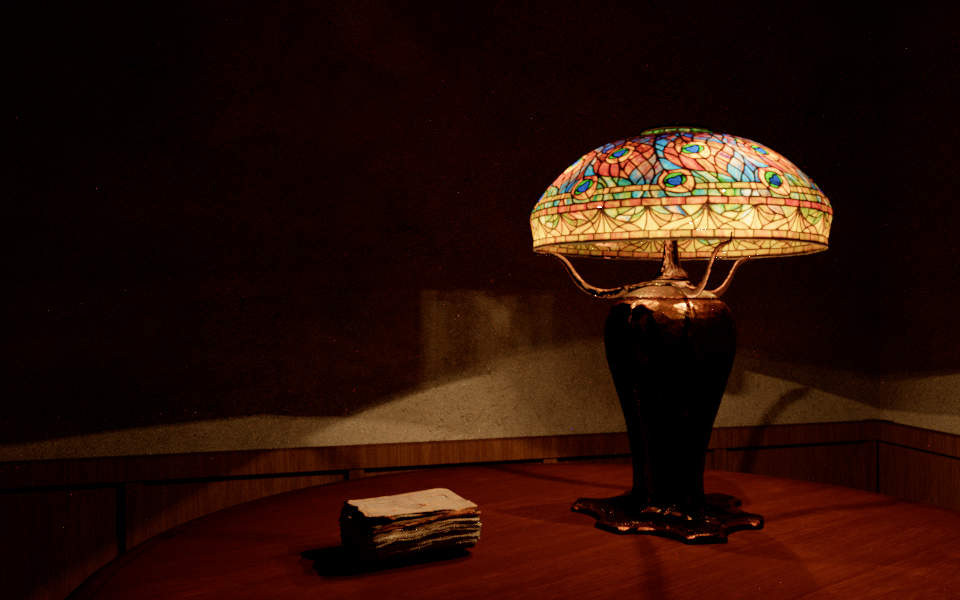
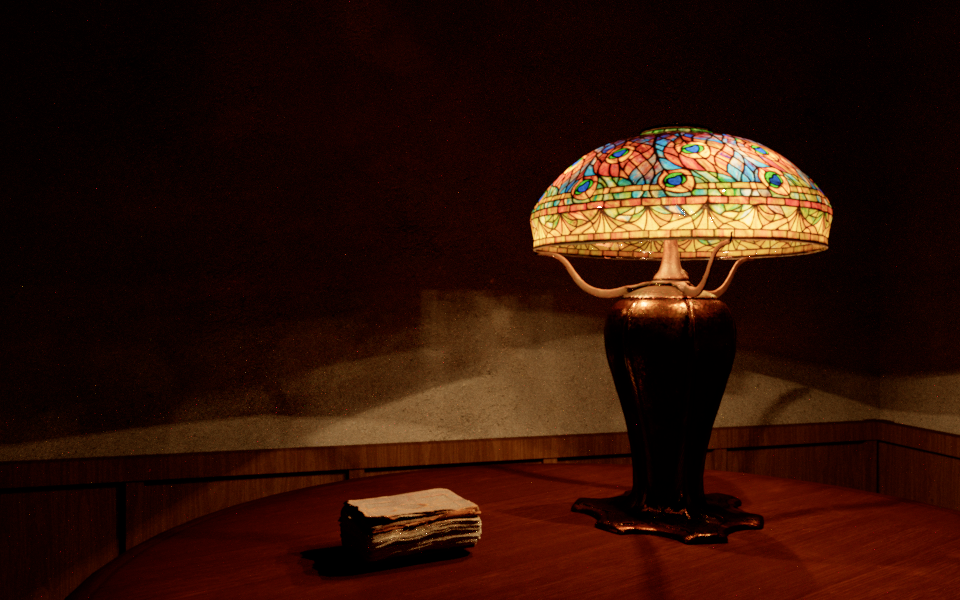
Promote the Peacock views and the invisible window's wall to the gallery
Captured on 26 October with the lead-wire repair, the concave-fold re-walk and
the ordering of ties that cannot change a region: Window Wall 26 region
inconsistencies in 1.25e9 paths, Peacock Room 276 and Shade 234 in 5.9e8 each,
no leaks. Each was reviewed at native resolution; the Peacock views keep a few
dozen isolated bright pixels on the shade. The Window room view stays withheld:
its capture recorded one leak.

diff --git a/docs/STATUS.md b/docs/STATUS.md
@@ -60,10 +60,10 @@ See the [four-case record](../benchmarks/results/20261013_maintenance.json) and
 |---|---|
 | 4× over v1.0 at equal image error | **Not achieved.** The 10-09 checkpoint was about 2.96× slower on the two compatible comparisons. Later local gains do not establish a full-suite result. Compare the same scene/assets, estimator, seeds and error threshold. |
 | Camera-kernel cost | The historical Peacock profile assigned about 79% of kernel time to camera paths. Submission and film changes do not remove that bottleneck. Specialized kernels and a wavefront prototype still need separate measurements. |
-| Production transport | Window panel leaks found and fixed 10-26: the panel's flat back is a fan of 150 mm × 0.6 mm slivers, and a ray entering a side face micrometres from the back missed it on the GPU (float Möller–Trumbore rejects a sliver near its far edge; double does not). Both backends now use the watertight triangle test in `core/shared`; a regression test (fan slab) fails on the old kernel. At 240×150, 64 spp, three seeds: Room SPPM 37 → 7 inconsistencies and 3 → 0 leaks, Wall 21 → 4 and 1 → 0; Room path tracing 0 in six seeds. What remains are ties at seams between coincident faces of touching bodies (shutter leaves, vestibule walls, door lintel and roof, mirror backing), stopped as ambiguous by design: a scene repair, or a rule for ties between opaque faces, is still to decide. At gallery settings (10-26) Room has 21 inconsistencies and 1 leak, Wall 48 and 0 (the previous Wall capture had 243 and 34). Peacock (10-26): the six lead-in wires ended on their loops' centre circles, so 0.8 % of the emitting area lay inside opaque wires and about 0.6 % of VCM paths were inconsistent; the wires now stop 30 µm short. At gallery settings (Room and Shade, 512 spp, 590M paths each) 1,958 and 1,489 remain, with 0 leaks. Most are ties where the bulbs' glass stem tabs end exactly on the ferrule plates (two shells with air on both sides, stopped by the same tie rule): in 24 sampled pilots the first inconsistency was such a tie 22 times. Light grazing a concave fold of the filament tori and missing the next facet in float32 is fixed (a mismatched hit is walked again in the mesh's own frame). Rarer float32 cases remain at the sub-millimetre filaments and wires (one torus facet edge and one lead-wire cap among the 24), and the window sill is sunk 2 cm into the west sill wall, a scene overlap. The [historical capture inventory](gallery/README.md) shows diagnostics in Kunstkammer, Gregorian and other gallery views too. Reproduce individual paths and require clean independent-seed captures. |
+| Production transport | Fixed 10-26: (1) the Window panel's fan of 150 mm × 0.6 mm sliver triangles let float Möller–Trumbore miss a face near its far edge; both backends now use the watertight triangle test in `core/shared`. (2) A ray grazing a concave fold of a mesh (the Peacock filament tori) could start the ordinary GPU traversal behind the next face, rounded to the eye-relative float spacing; a wrong-sided hit is now walked again in the mesh's own frame. (3) The Peacock lead-in wires ended inside their filaments; they now stop 30 µm short. (4) Ties between two faces that cannot change the ray's region (touching opaque bodies, air-sided sheets) are ordered by stable ID on the GPU instead of stopping the path; ties into different regions still stop. Each has a regression test. Gallery captures 10-26: Window Room 10 inconsistencies in 6.3e8 paths and 1 leak, Wall 26 in 1.25e9 and 0; Peacock Room 276 and Shade 234 in 5.9e8 each, 0 leaks. Open: the Window Room leak; rare float32 cases at sub-millimetre bodies (a torus facet edge, a lead-wire cap); the Peacock window sill sunk 2 cm into its wall. Kunstkammer, Gregorian and other earlier captures still record diagnostics ([inventory](gallery/README.md)). |
 | Loading | Disk pipeline caching exists (bounded at 128 MB since 10-26: it kept every build's pipelines and had reached 342 MB). Each tracing kernel was one inlined `main` of 2–3 MB SPIR-V, half of it spectrum evaluation; with spectra evaluated by a call (10-26) kernels are 1–1.4 MB and the uncached VCM kernels of a 64×48 prism render compile in 68 s instead of 217 s (NVIDIA's own 1 GB shader cache hides compiles until it is full). Loading was measured 10-26: meshes, parsing and the world build take under 0.5 s of the Window scene's load; decoding image textures (16k JPEGs of 2–3 s each, mostly halved afterwards by the texture budget) took the rest, one image at a time. Images are now decoded in parallel under a 4 GB cap (`OWE_TEXTURE_DECODE_MB`): Kunstkammer 30 → 7.7 s, Peacock 16.7 → 5.7 s, Gregorian 13.3 → 5.7 s, Window 11.3 → 5.6 s; peak memory 3.2 → 4.4 GB. A persistent cache of the budgeted texels would remove most of the rest; mesh/BVH caching is not where the time goes. |
-| Gallery quality | Kunstkammer still has isolated bright noise. Window Room and Wall PNGs are kept only in local scratch (`out/gallery/withheld_20261012`); portable native diagnostics remain in the repository. Fresh diagnostic-clean, visually reviewed captures are required before promotion. Captures before 10-26 also shade glTF models with wrong file normals wherever a node is rotated or non-uniformly scaled (the normals were transformed by the inverse instead of the inverse transpose; fixed, with a regression test): the Peacock book, the Kunstkammer astrolabe and globe and the Gregorian chest need recapturing. |
-| Window photograph | Permission confirmed by the user on 10-26 (use as the solver target and publication of the derived renders; the photograph itself is not redistributed). The manifest's Window entries are `cleared`; promotion now waits only on a diagnostic-clean, reviewed capture. |
+| Gallery quality | Promoted 10-26 under the rate gate: Peacock Room and Shade, Window Wall. The Peacock views keep a few dozen isolated bright pixels on the shade (rare high-weight VCM paths); Kunstkammer has isolated bright noise. Window Room is withheld (one leak). Captures before 10-26 shade glTF models with wrong file normals wherever a node is rotated or non-uniformly scaled (fixed, with a regression test): the Kunstkammer astrolabe and globe and the Gregorian chest need recapturing. |
+| Window photograph | Done 10-26: permission confirmed by the user (use as the solver target and publication of the derived renders; the photograph itself is not redistributed); the Wall view is in the gallery. |
 | Manifold next-event estimation | Unimplemented. Needs a separate estimator, PDF/MIS derivation and independent glint/caustic validation. |
 | Large translation units | Done 10-26: formulas both backends evaluate live once in `core/shared` (C++ double, Slang float); the integrators share their path steps; loader, geometry (mesh, OBJ), viewer worker and panels, CLI studio and the GPU host passes are split. `World::intersect` (contact resolution) is left whole until the transport leaks are diagnosed. |
 

diff --git a/README.md b/README.md
@@ -21,14 +21,17 @@ every pixel.
 | **The Kunstkammer** — daylight reaches the mounted armour and casts its silhouette across plaster; steel, carved wood and red cloth remain distinct. | **The Peacock Lamp** — real carbon filaments illuminate opalescent glass, bronze and an antique binding. |
 | ![Gregorian Beside](docs/gallery/gregorian_beside.png) | ![Gregorian Eyepiece](docs/gallery/gregorian_eyepiece.png) |
 | **The Gregorian** — candlelit telescope, stand and the real Moon beyond its window. | **Through the eyepiece** — an erect lunar image emerges through the unchanged two-mirror, two-lens prescription. |
-| ![Gregorian Naked](docs/gallery/gregorian_naked.png) | |
-| **The unaided Moon** — true angular scale at the same 38° field and display settings as the eyepiece view. | |
+| ![Gregorian Naked](docs/gallery/gregorian_naked.png) | ![Peacock Lamp Shade](docs/gallery/peacock_lamp_shade.png) |
+| **The unaided Moon** — true angular scale at the same 38° field and display settings as the eyepiece view. | **The shade** — peacock eyes and feather glass lit from within by the three filaments. |
+| ![Invisible Window Wall](docs/gallery/invisible_window_wall.png) | |
+| **The invisible window** — a clear PMMA panel, shaped by inverse caustic design, projects a lancet window onto the wall in sunlight. | |
 
-These historical captures are previews: all five have nonzero transport diagnostics,
-and Kunstkammer still shows isolated bright noise. They are not validated reference
-images; new gallery promotion requires zero leaks and at most one region inconsistency per million paths. Window Room and Wall are withheld from this
-featured gallery until a capture has clean transport diagnostics. Historical images
-and native diagnostics remain available for investigation.
+The two Peacock views and the invisible window's wall were captured on 26 October 2026 and
+meet the promotion criteria: zero leaks and at most one region inconsistency per million
+paths (4.7e-7, 4.0e-7 and 2.1e-8). The Peacock views keep a few dozen isolated bright pixels
+on the shade. The Kunstkammer and Gregorian views are earlier previews with nonzero transport
+diagnostics, and the Kunstkammer shows isolated bright noise; they are not validated reference
+images. The window's room view is withheld: its capture recorded one leak.
 See [current status](docs/STATUS.md), [capture records](benchmarks/results/20261010_gallery.json)
 and [asset credits](docs/ASSET_CREDITS.md).
 

diff --git a/docs/gallery/README.md b/docs/gallery/README.md
@@ -1,8 +1,9 @@
 # Historical gallery diagnostics
 
-These are the diagnostics stored with the existing captures, not new renders of
-the current engine. Nonzero counts keep these images from meeting the current
-promotion criteria. See [current status](../STATUS.md) and the
+These are the diagnostics stored with each capture. The Peacock views and the
+invisible window's wall were captured on 26 October 2026 and meet the current
+promotion criteria (zero leaks, at most one region inconsistency per million paths);
+the others are earlier captures. See [current status](../STATUS.md) and the
 [gallery workflow](../GALLERY_WORKFLOW.md).
 
 | Capture record | Samples/pixel | Inconsistencies | Leaks |
@@ -16,17 +17,18 @@ promotion criteria. See [current status](../STATUS.md) and the
 | [gregorian_eyepiece](gregorian_eyepiece.json) | 2,048 | 316 | 0 |
 | [gregorian_naked](gregorian_naked.json) | 256 | 4 | 0 |
 | [invisible_window_room](invisible_window_room.json) | 64 | 168 | 21 |
-| [invisible_window_wall](invisible_window_wall.json) | 128 | 243 | 34 |
+| [invisible_window_wall](invisible_window_wall.json) | 128 | 26 | 0 |
 | [kunstkammer_room](kunstkammer_room.json) | 2,048 | 337 | 0 |
 | [observatory_desk](observatory_desk.json) | 4,096 | 59,873 | 203 |
 | [observatory_room](observatory_room.json) | 4,096 | 14,102 | 645 |
-| [peacock_lamp_room](peacock_lamp_room.json) | 512 | 3,643,940 | 0 |
+| [peacock_lamp_room](peacock_lamp_room.json) | 512 | 276 | 0 |
+| [peacock_lamp_shade](peacock_lamp_shade.json) | 512 | 234 | 0 |
 | [prism_in_sunlight](prism_in_sunlight.json) | 1,024 | 1,970 | 818 |
 | [study_room](study_room.json) | 256 | 407 | 3 |
 | [tea_glass](tea_glass.json) | 1,024 | 1,672 | 1 |
 | [the_lens](the_lens.json) | 512 | 0 | 0 |
 
-Window PNGs are withheld until a capture has clean diagnostics (permission for
-the target photograph was confirmed on 26 October 2026). Their numeric records
-remain available here. Clean counters alone do not certify a renderer
+The Window room PNG is withheld: the historical record above is kept, and its
+26 October capture (10 region inconsistencies in 6.3e8 paths) recorded one leak.
+Permission for the target photograph was confirmed on 26 October 2026. Clean counters alone do not certify a renderer
 or a gallery image: visual noise and independent estimator checks also matter.

diff --git a/docs/scenes/the_invisible_window.md b/docs/scenes/the_invisible_window.md
@@ -2,6 +2,6 @@
 
 The executable specification is [the scene](../../scenes/the_invisible_window.owe).
 
-Room and Wall observe the frozen refractive PMMA panel. Both existing captures (before 26 October 2026) have region inconsistencies and leaks, so these views are withheld from the featured gallery until a capture is diagnostic-clean. Use of the target photograph was confirmed on 26 October 2026 ([asset credits](../ASSET_CREDITS.md)).
+Room and Wall observe the frozen refractive PMMA panel. The Wall view was captured and promoted on 26 October 2026 (26 region inconsistencies in 1.25e9 paths, no leaks). The Room view stays withheld: its capture that day recorded one leak. Use of the target photograph was confirmed on 26 October 2026 ([asset credits](../ASSET_CREDITS.md)).
 
 [Current project status](../STATUS.md) · [asset credits](../ASSET_CREDITS.md) · [historical capture log](../archive/2026-10/scenes/the_invisible_window.txt).
